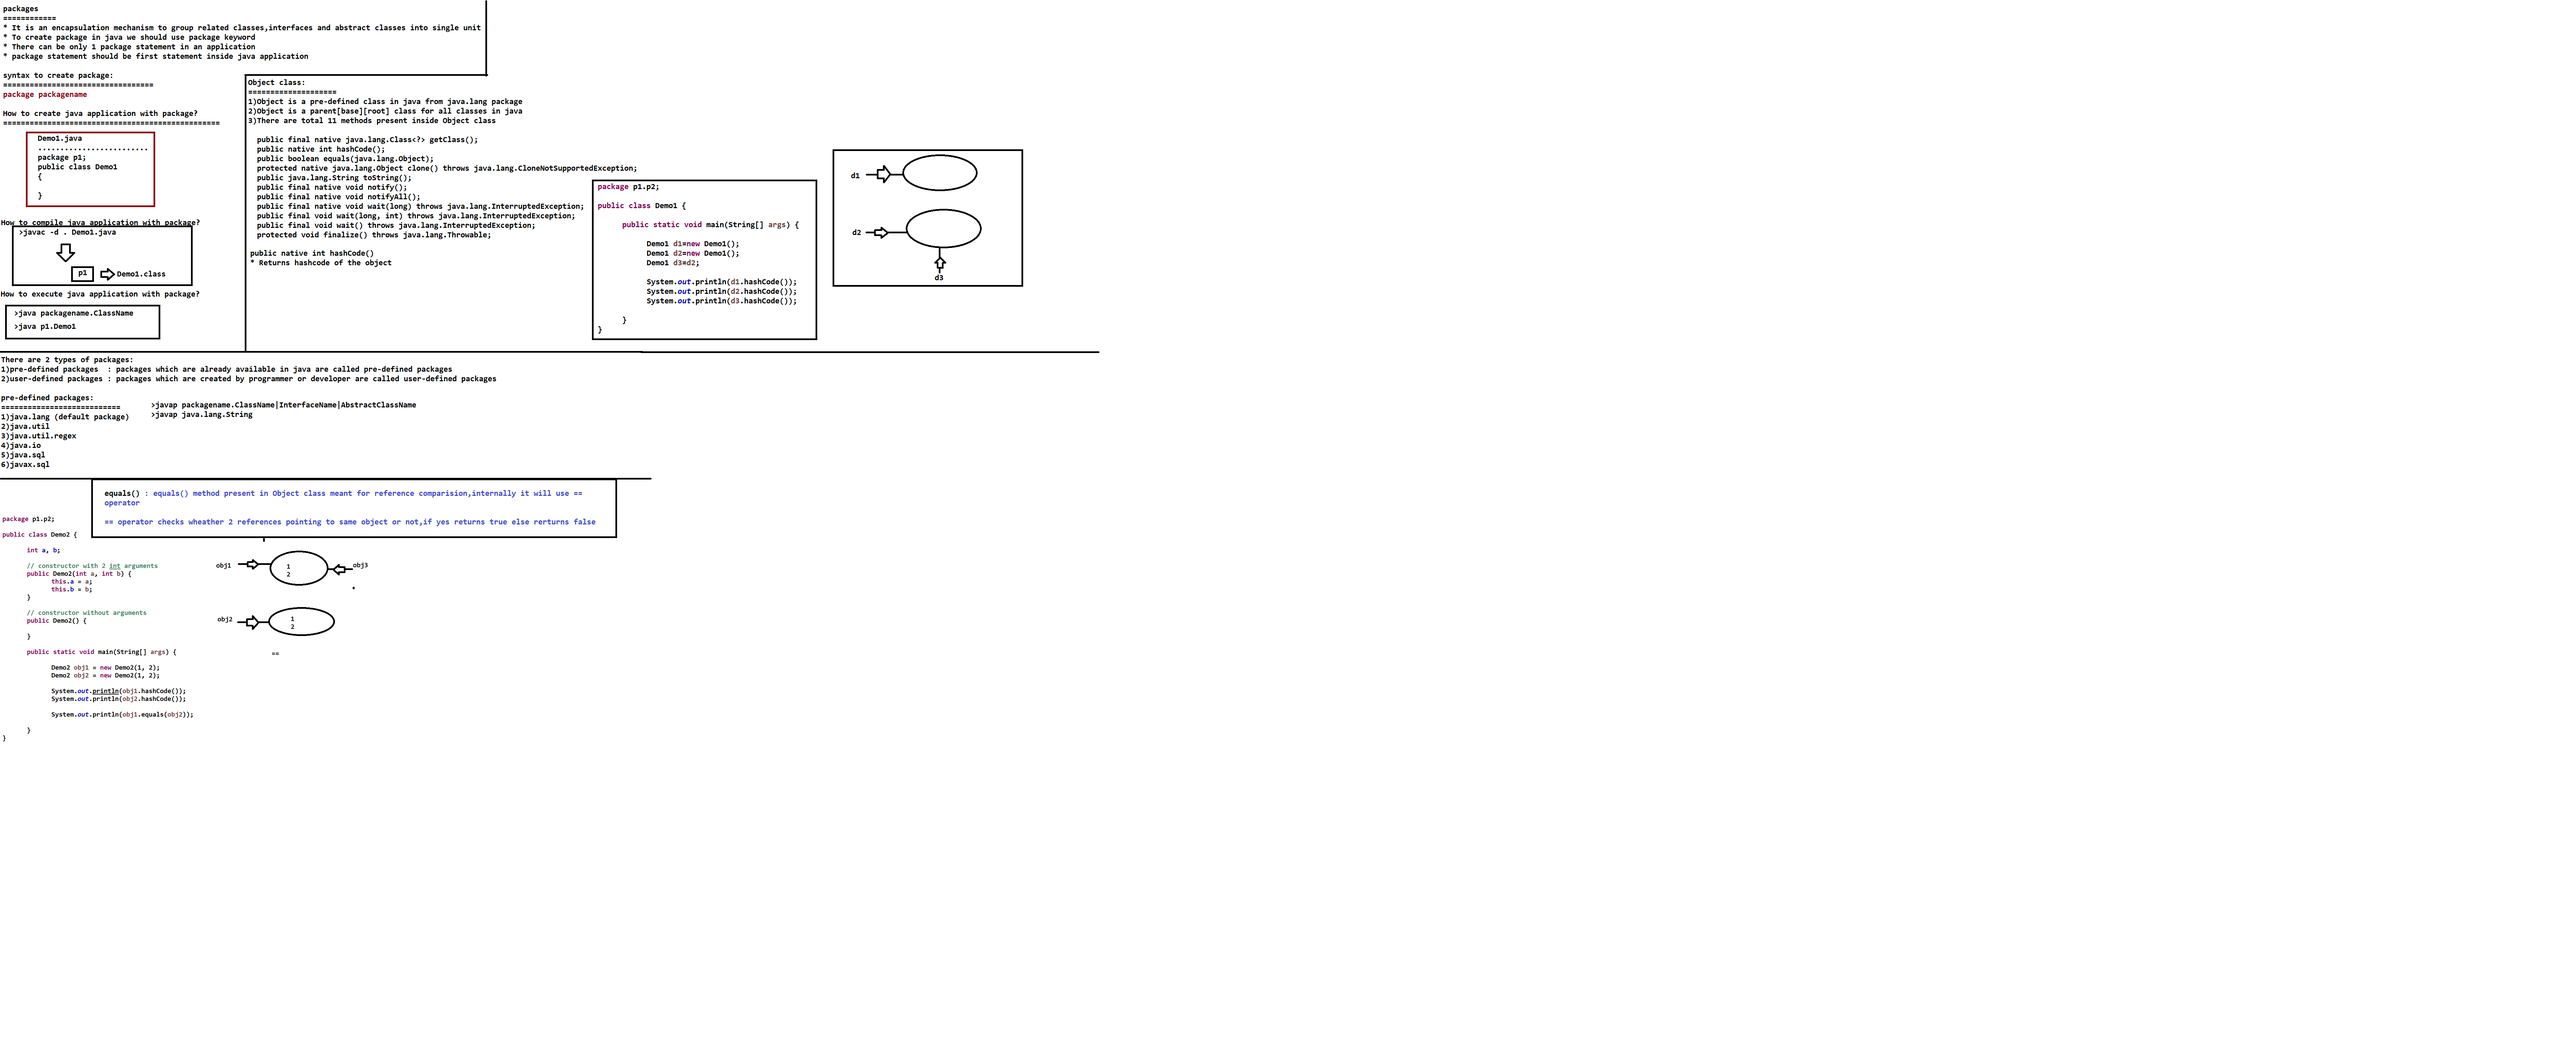
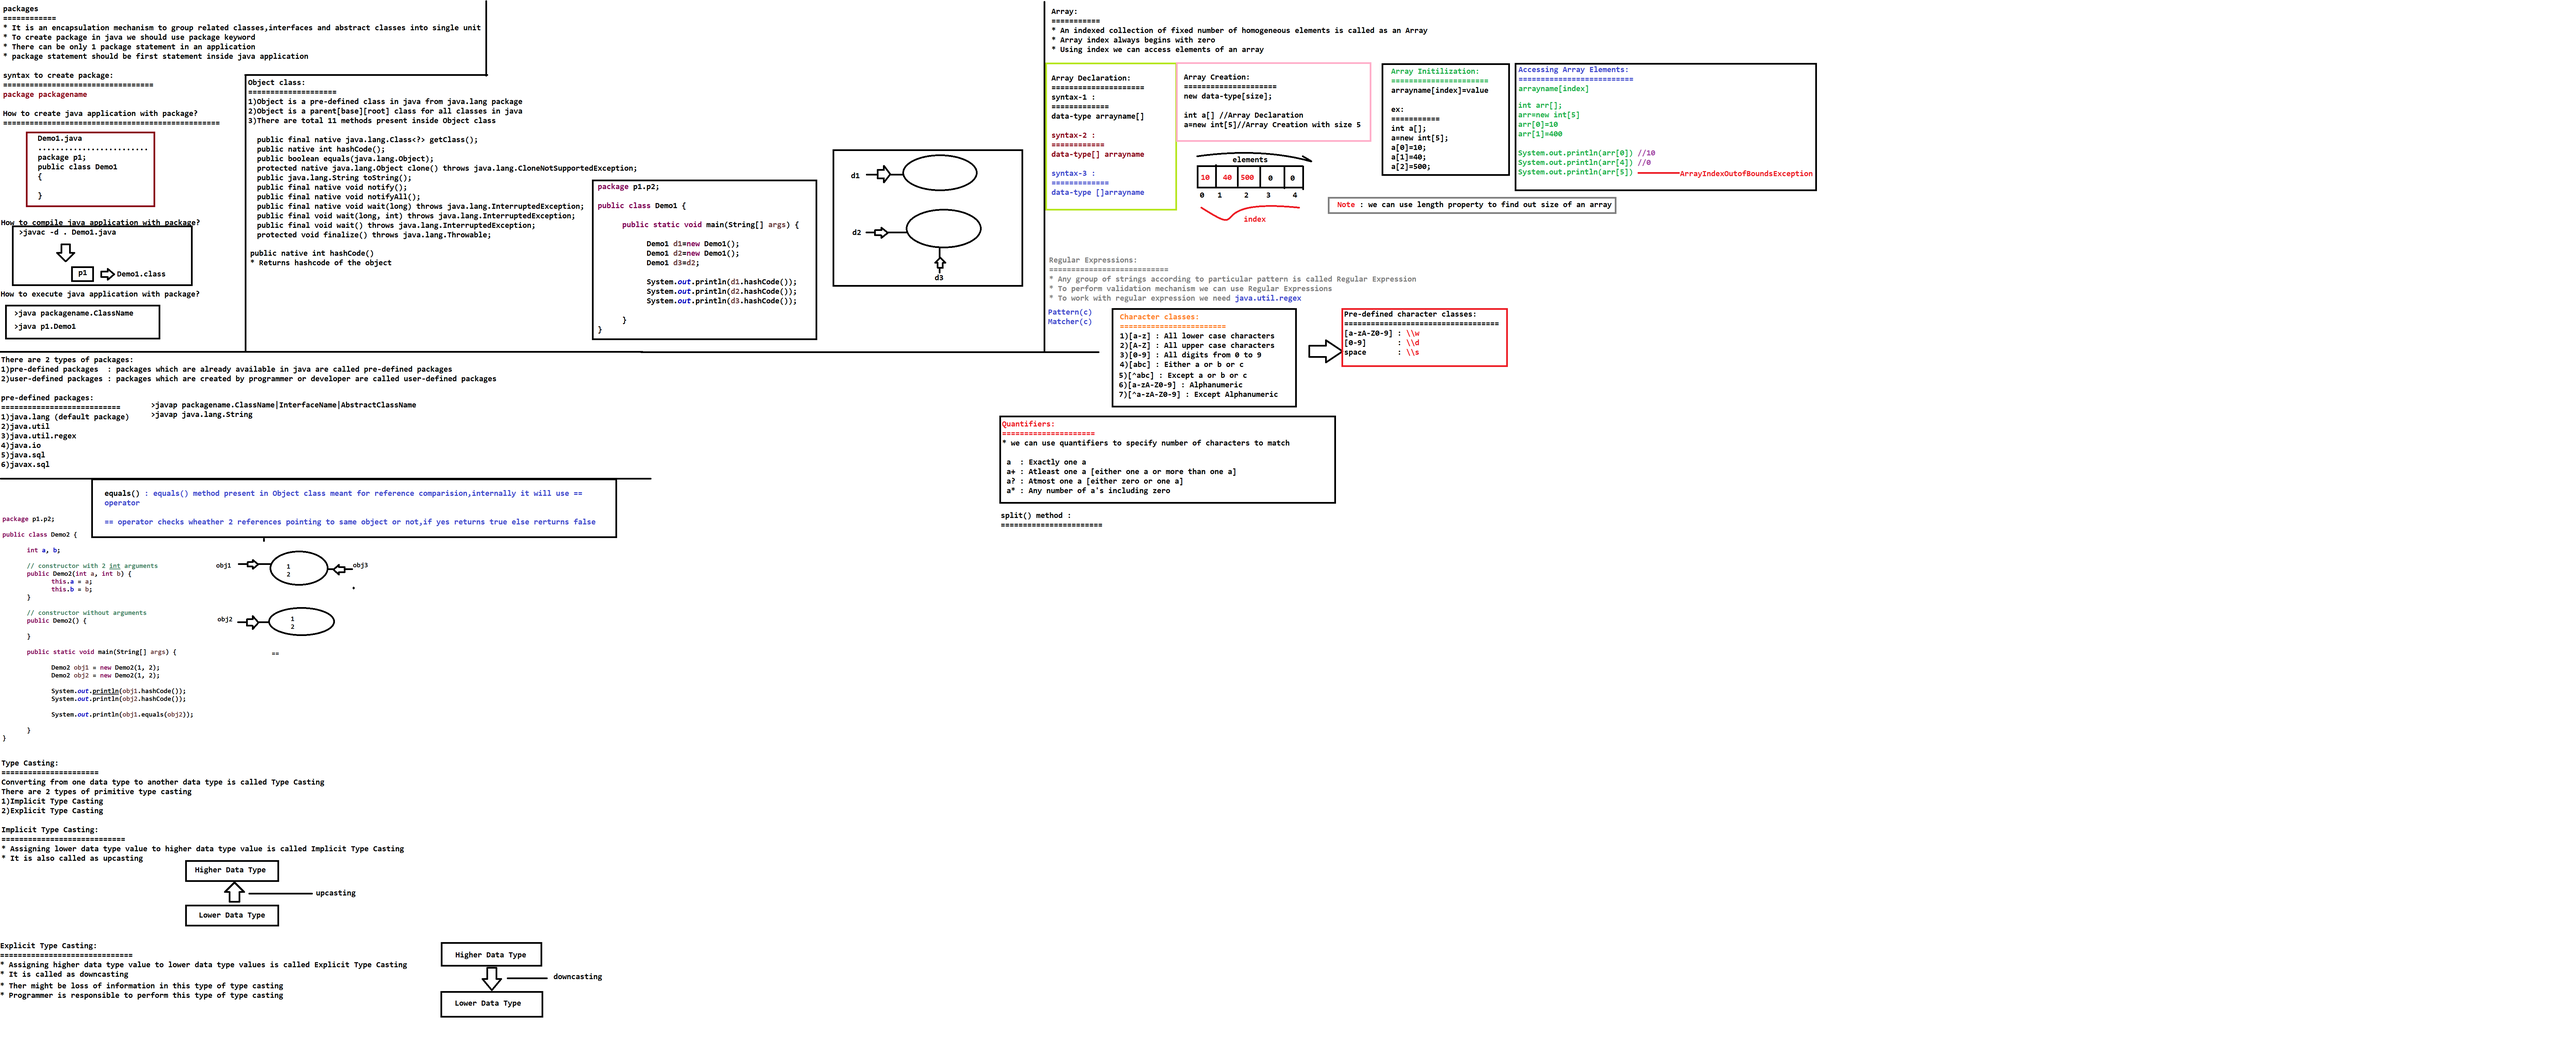
First Commit

diff --git a/DemoApp1/src/p1/p2/ArrayDemo1.java b/DemoApp1/src/p1/p2/ArrayDemo1.java
@@ -1,0 +1,30 @@
+package p1.p2;
+
+public class ArrayDemo1 {
+
+	public static void main(String[] args) {
+		
+		int a[];//Array Declaration
+		int[] b;//Array Declaration
+		int []c;//Array Declaration
+		
+		a=new int[5]; //Array Creation
+		b=new int[3];
+		c=new int[10];
+		
+		a[0]=1;
+		a[1]=90;
+		a[4]=100;		
+		
+		System.out.println("Element at index position-0:"+a[0]);//1
+		System.out.println("Element at index position-1:"+a[1]);//90
+		System.out.println("Element at index position-2:"+a[2]);//0
+		System.out.println("Element at index position-3:"+a[3]);//0
+		System.out.println("Element at index position-4:"+a[4]);//100
+		
+		System.out.println("length of array :a :"+a.length);
+		System.out.println("length of array :b :"+b.length);
+		System.out.println("length of array :c :"+c.length);
+		
+	}
+}

diff --git a/DemoApp1/src/p1/p2/MobileNumberValidation.java b/DemoApp1/src/p1/p2/MobileNumberValidation.java
@@ -1,0 +1,36 @@
+package p1.p2;
+
+import java.util.Scanner;
+import java.util.regex.Matcher;
+import java.util.regex.Pattern;
+
+/*
+ * Requirement : 
+ * Validate 10-digit mobile number
+ * mobile number should start with either 6 or 7 or 8 or 9 
+ */
+public class MobileNumberValidation {
+
+	public static void main(String[] args) {
+		
+		Scanner sc=new Scanner(System.in);
+		System.out.print("Enter Your Mobile Number:");
+		String mobile=sc.next();
+		
+		Pattern p=Pattern.compile("[6789][0-9]{9}");
+		
+		Matcher m=p.matcher(mobile);
+		
+		if(m.find() && m.group().equals(mobile))
+		{
+			System.out.println("Mobile Number is valid :"+mobile);
+		}
+		else
+		{
+			System.out.println("Mobile Number is invalid :"+mobile);
+		}
+		
+		
+	}
+	
+}

diff --git a/DemoApp1/src/p1/p2/ArrayDemo4.java b/DemoApp1/src/p1/p2/ArrayDemo4.java
@@ -1,0 +1,33 @@
+package p1.p2;
+
+import java.util.regex.Pattern;
+
+public class ArrayDemo4 {
+	
+	public static void main(String[] args) {
+		
+		String website="www.capgemini.com";
+		String dob="17-09-1990";
+		
+		Pattern p1=Pattern.compile("\\.");
+		String s1[]=p1.split(website);
+		
+		Pattern p2=Pattern.compile("-");
+		String s2[]=p2.split(dob);
+		
+		for(int i=0;i<s1.length;i++)
+		{
+			System.out.println(s1[i]);
+		}
+		
+		System.out.println("****************************");
+		
+		for(int i=0;i<s2.length;i++)
+		{
+			System.out.println(s2[i]);
+		}
+		
+		
+	}
+
+}

diff --git a/DemoApp1/src/p1/p2/RegExDemo1.java b/DemoApp1/src/p1/p2/RegExDemo1.java
@@ -1,0 +1,22 @@
+package p1.p2;
+
+import java.util.regex.Matcher;
+import java.util.regex.Pattern;
+
+public class RegExDemo1 {
+
+	public static void main(String[] args) {
+		String target = "absbaaababbab";
+
+		Pattern p = Pattern.compile("ab");
+		Matcher m = p.matcher(target);
+		int count = 0;
+
+		while (m.find()) {
+			count = count + 1;
+			System.out.println("Start Index :" + m.start() + " End Index :" + m.end() + " Matched String :" + m.group());
+		}
+		System.out.println("No of occurences :" + count);
+
+	}
+}

diff --git a/DemoApp1/src/p1/p2/RegExDemo2.java b/DemoApp1/src/p1/p2/RegExDemo2.java
@@ -1,0 +1,21 @@
+package p1.p2;
+
+import java.util.regex.Matcher;
+import java.util.regex.Pattern;
+
+public class RegExDemo2 {
+
+	public static void main(String[] args) {
+
+		String target="asCAPGEMINI bangalore@gmail.com1235";
+		Pattern p=Pattern.compile("[\\s]");
+		Matcher m=p.matcher(target);
+
+		while(m.find())
+		{
+			System.out.println("Start Index :" + m.start() + " End Index :" + m.end() + " Matched String :" + m.group());
+		}
+		
+	}
+
+}

diff --git a/DemoApp1/src/p1/p2/ArrayDemo2.java b/DemoApp1/src/p1/p2/ArrayDemo2.java
@@ -1,0 +1,21 @@
+package p1.p2;
+
+public class ArrayDemo2 {
+	
+	public static void main(String[] args) {
+		
+		int[] arr=new int[3];
+		
+		System.out.println("length is :"+arr.length);
+		
+		int eids[]= {1,2,3,53,3636,36,36,36,36,36,36,6,266,26,26,26,26,262,62,6};
+		
+		System.out.println("length is :"+eids.length);
+		
+		for(int i=0;i<eids.length;i++)
+		{
+			System.out.println("Element at index position:"+i+" is :"+eids[i]);
+		}
+	}
+
+}

diff --git a/DemoApp1/src/p1/p2/RegExDemo3.java b/DemoApp1/src/p1/p2/RegExDemo3.java
@@ -1,0 +1,21 @@
+package p1.p2;
+
+import java.util.regex.Matcher;
+import java.util.regex.Pattern;
+
+public class RegExDemo3 {
+
+	public static void main(String[] args) {
+
+		String target="aabaaabaabacapgemnia";
+		Pattern p=Pattern.compile("a*");
+		Matcher m=p.matcher(target);
+
+		while(m.find())
+		{
+			System.out.println("Start Index :" + m.start() + " End Index :" + m.end() + " Matched String :" + m.group());
+		}
+		
+	}
+
+}
